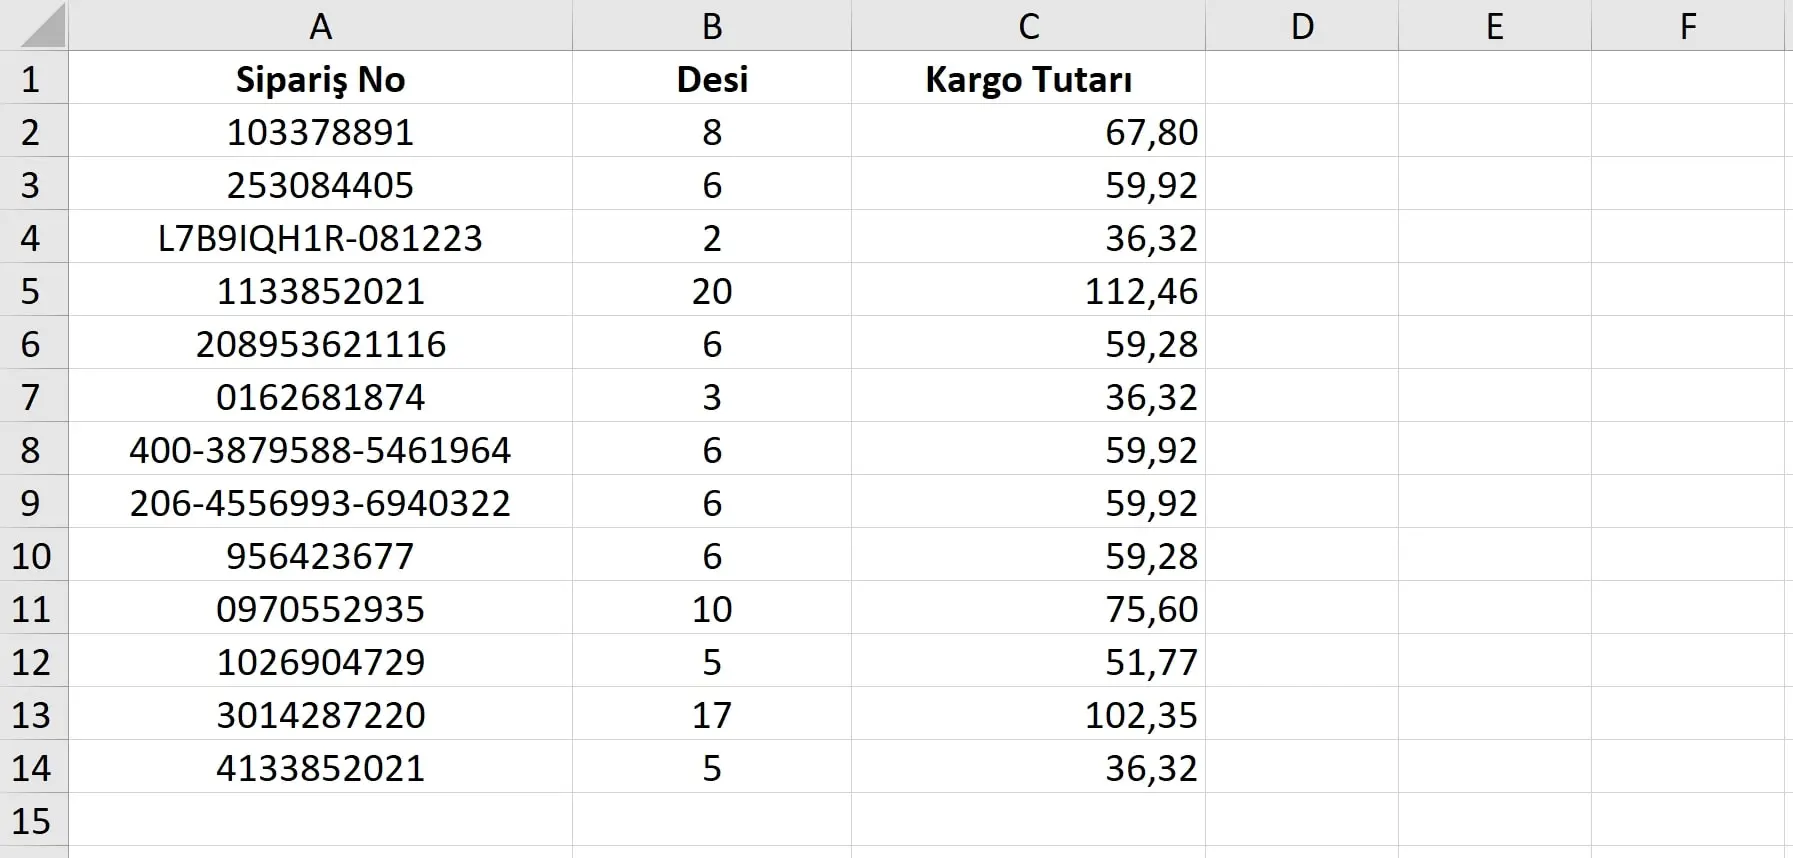
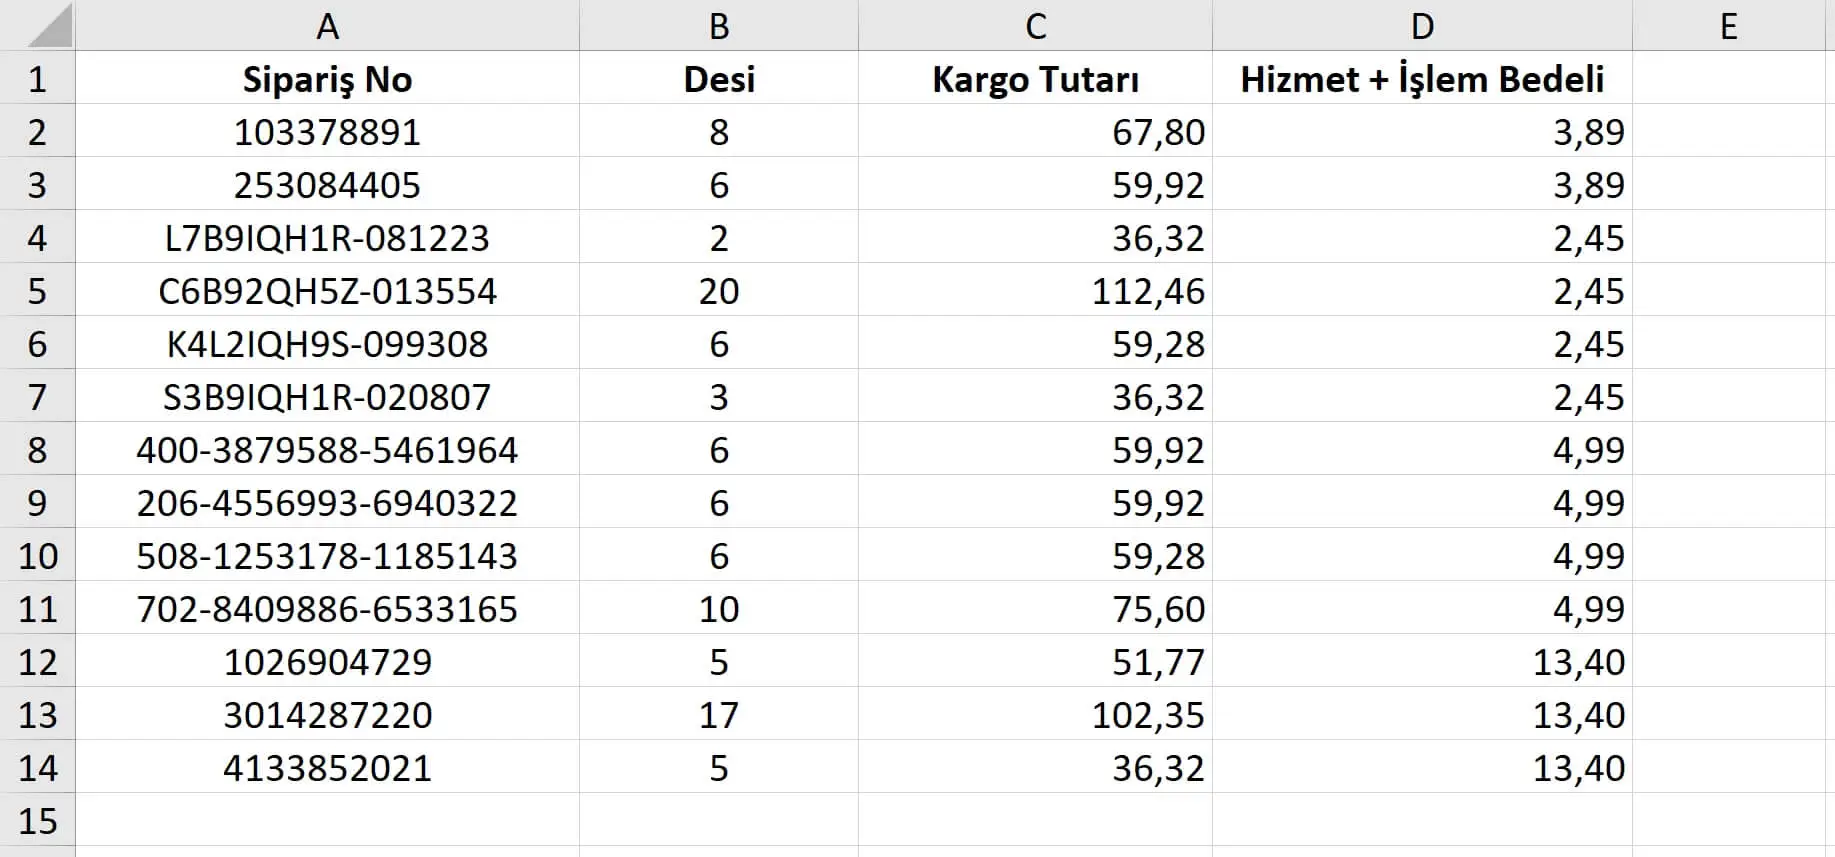
kargo gorseli dzeltildi

diff --git a/etikom/views.py b/etikom/views.py
@@ -781,10 +781,11 @@ def kargoexcelyuklemeyap(request):
                 kargo = Kargo(
                     Desi = row['Desi'],
                     Kargotutari = row['Kargo Tutarı'],
+                    Hizmetbedeli = row['Hizmet + İşlem Bedeli'],
                     Siparisno = siparis,
                     Firmaadi = request.user,
                 )
-                kargo.save()
+                kargo.save5()
             
             return redirect('kargolistesiurl')
 
@@ -1303,7 +1304,7 @@ def kargoduzeltme(request, firma, pk):
             if form.is_valid():
                 post = form.save(commit=False)
                 post.Firmaadi = request.user
-                post.save()
+                post.save5()
                 return redirect('kargolistesiurl')
     else:
         form = KargoFormu(instance=kontrolkargo)
@@ -1323,7 +1324,7 @@ def kargoexceliindir(request):
         'Sipariş No': [kargo.Siparisno for kargo in kargolar],
         'Desi': [kargo.Desi for kargo in kargolar],
         'Kargo Tutarı': [str(kargo.Kargotutari).replace('.', ',') for kargo in kargolar],
-        'Hizmet İşlem Bedeli': [str(kargo.Hizmetbedeli).replace('.', ',') for kargo in kargolar],
+        'Hizmet + İşlem Bedeli': [str(kargo.Hizmetbedeli).replace('.', ',') for kargo in kargolar],
         'Toplam': [str(kargo.Toplam).replace('.', ',') for kargo in kargolar],
     }
     df = pd.DataFrame(data)
